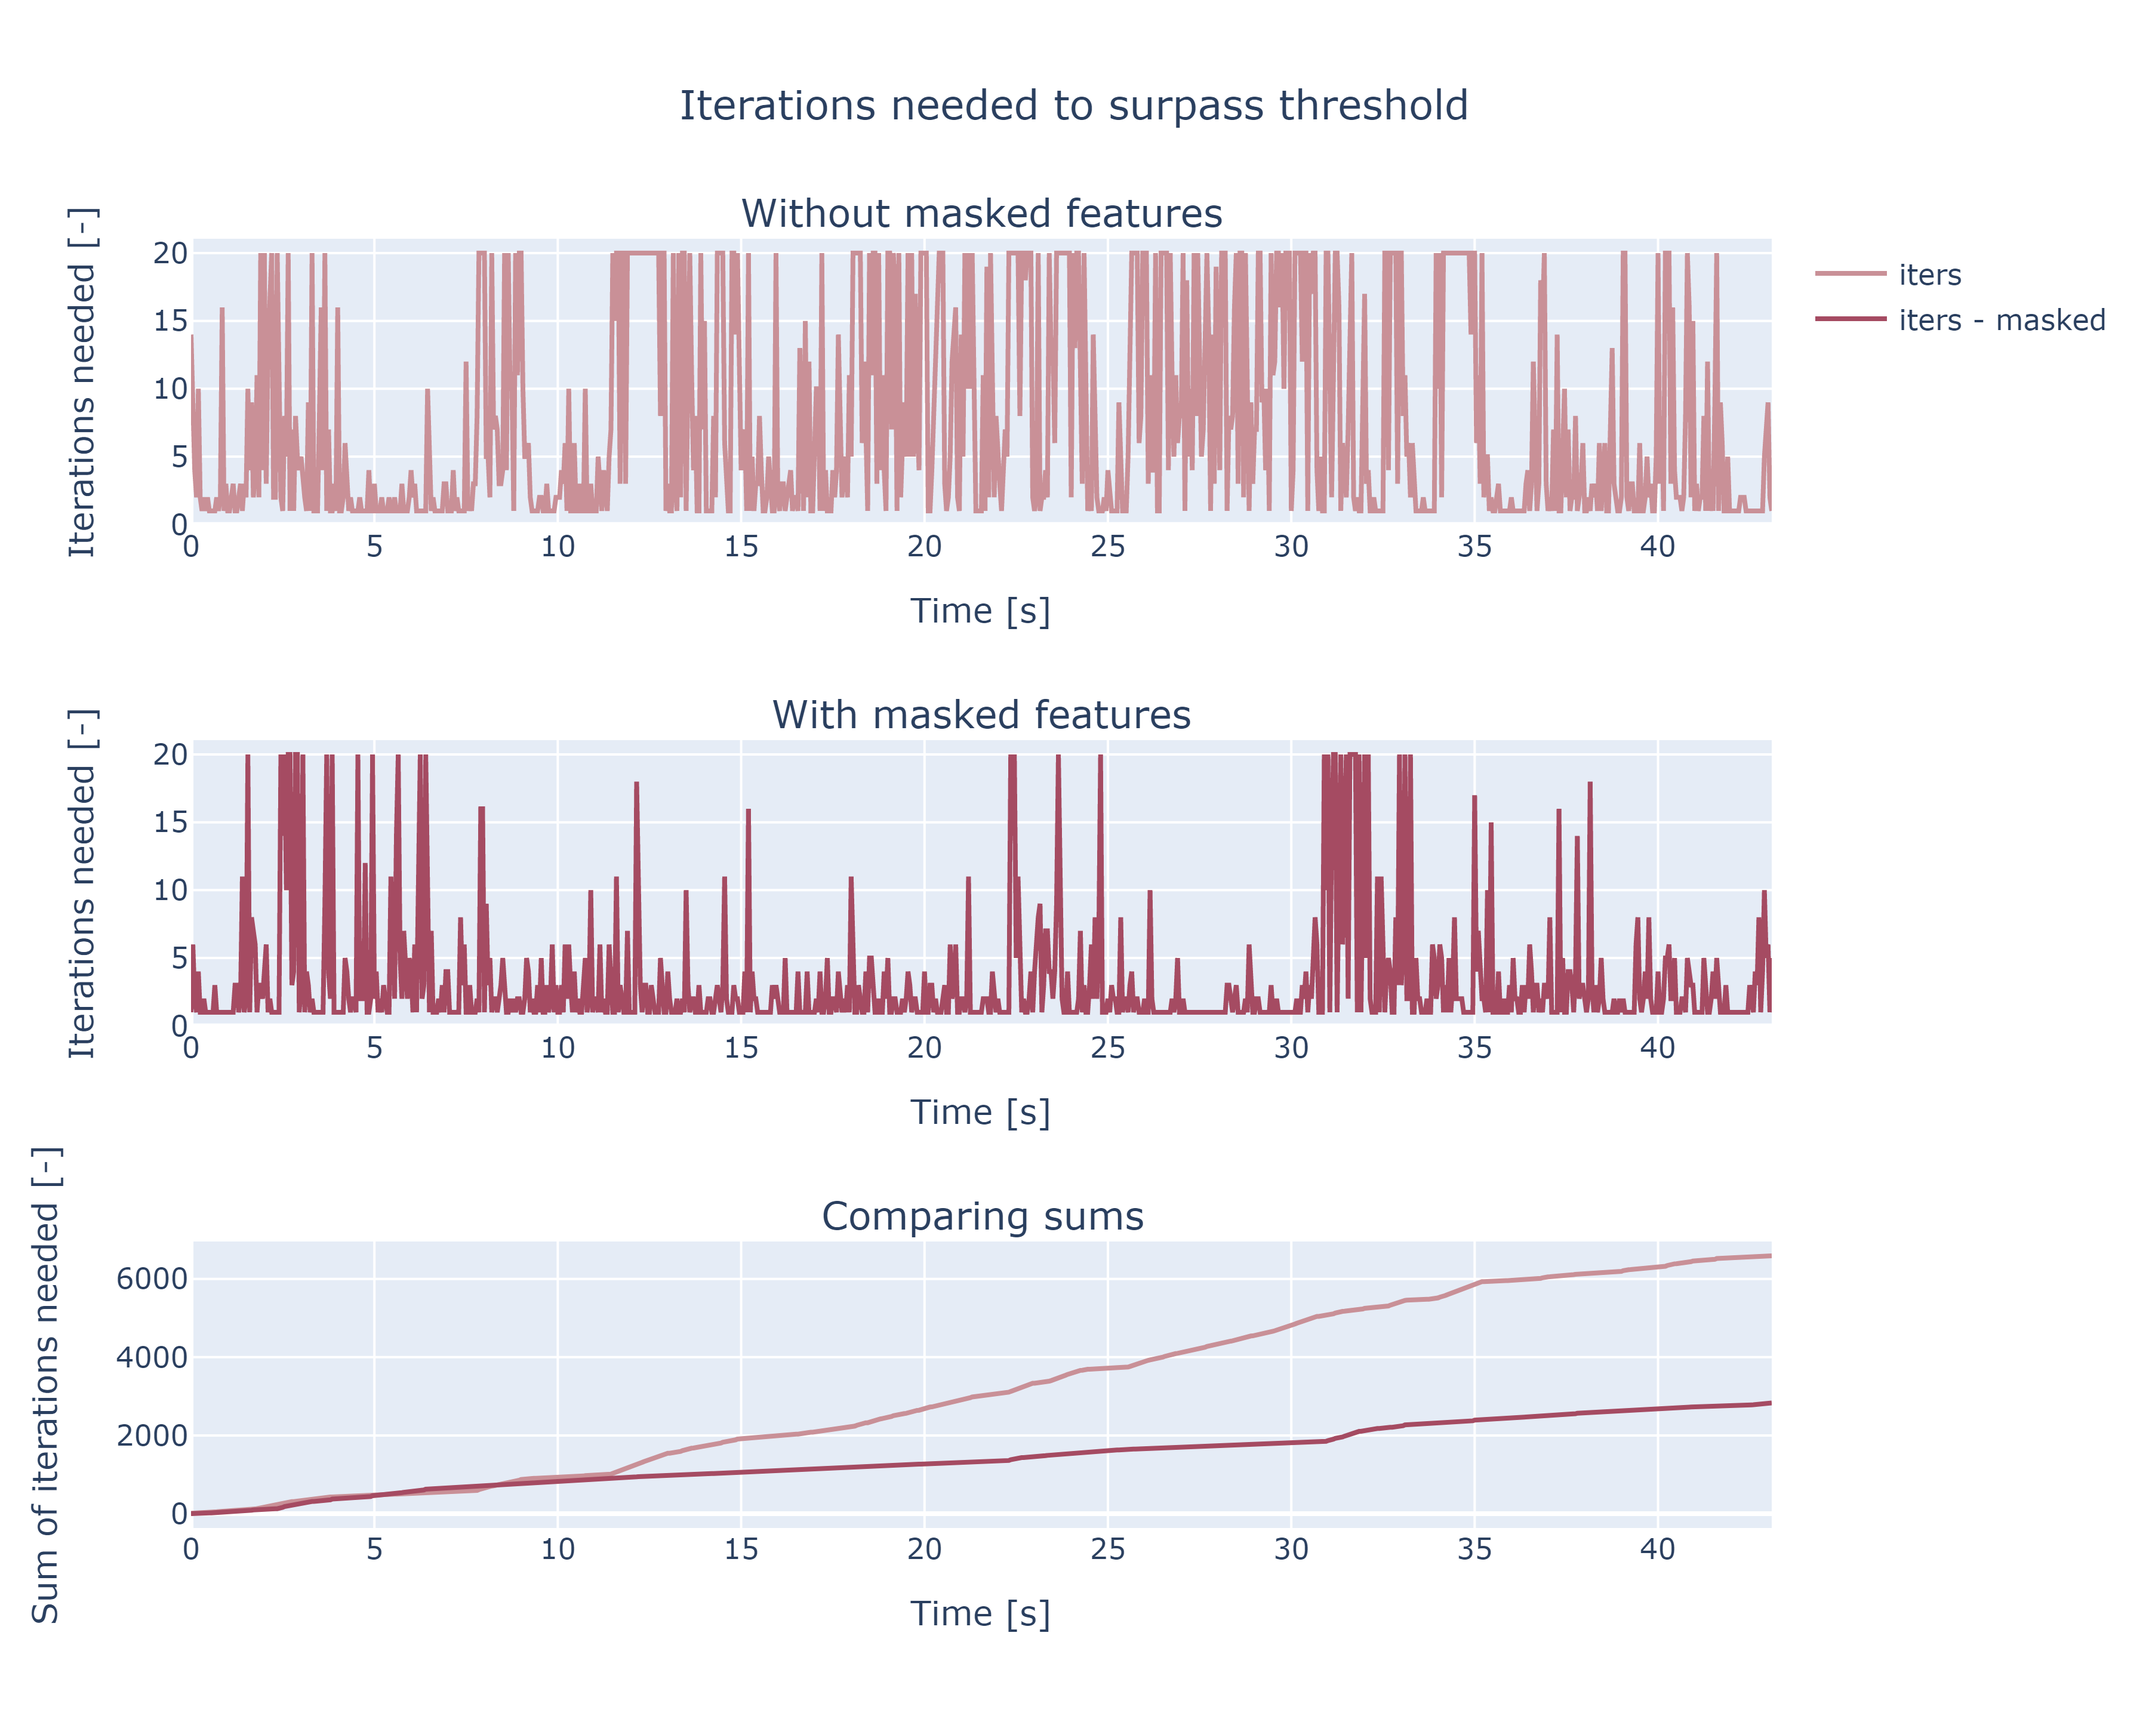
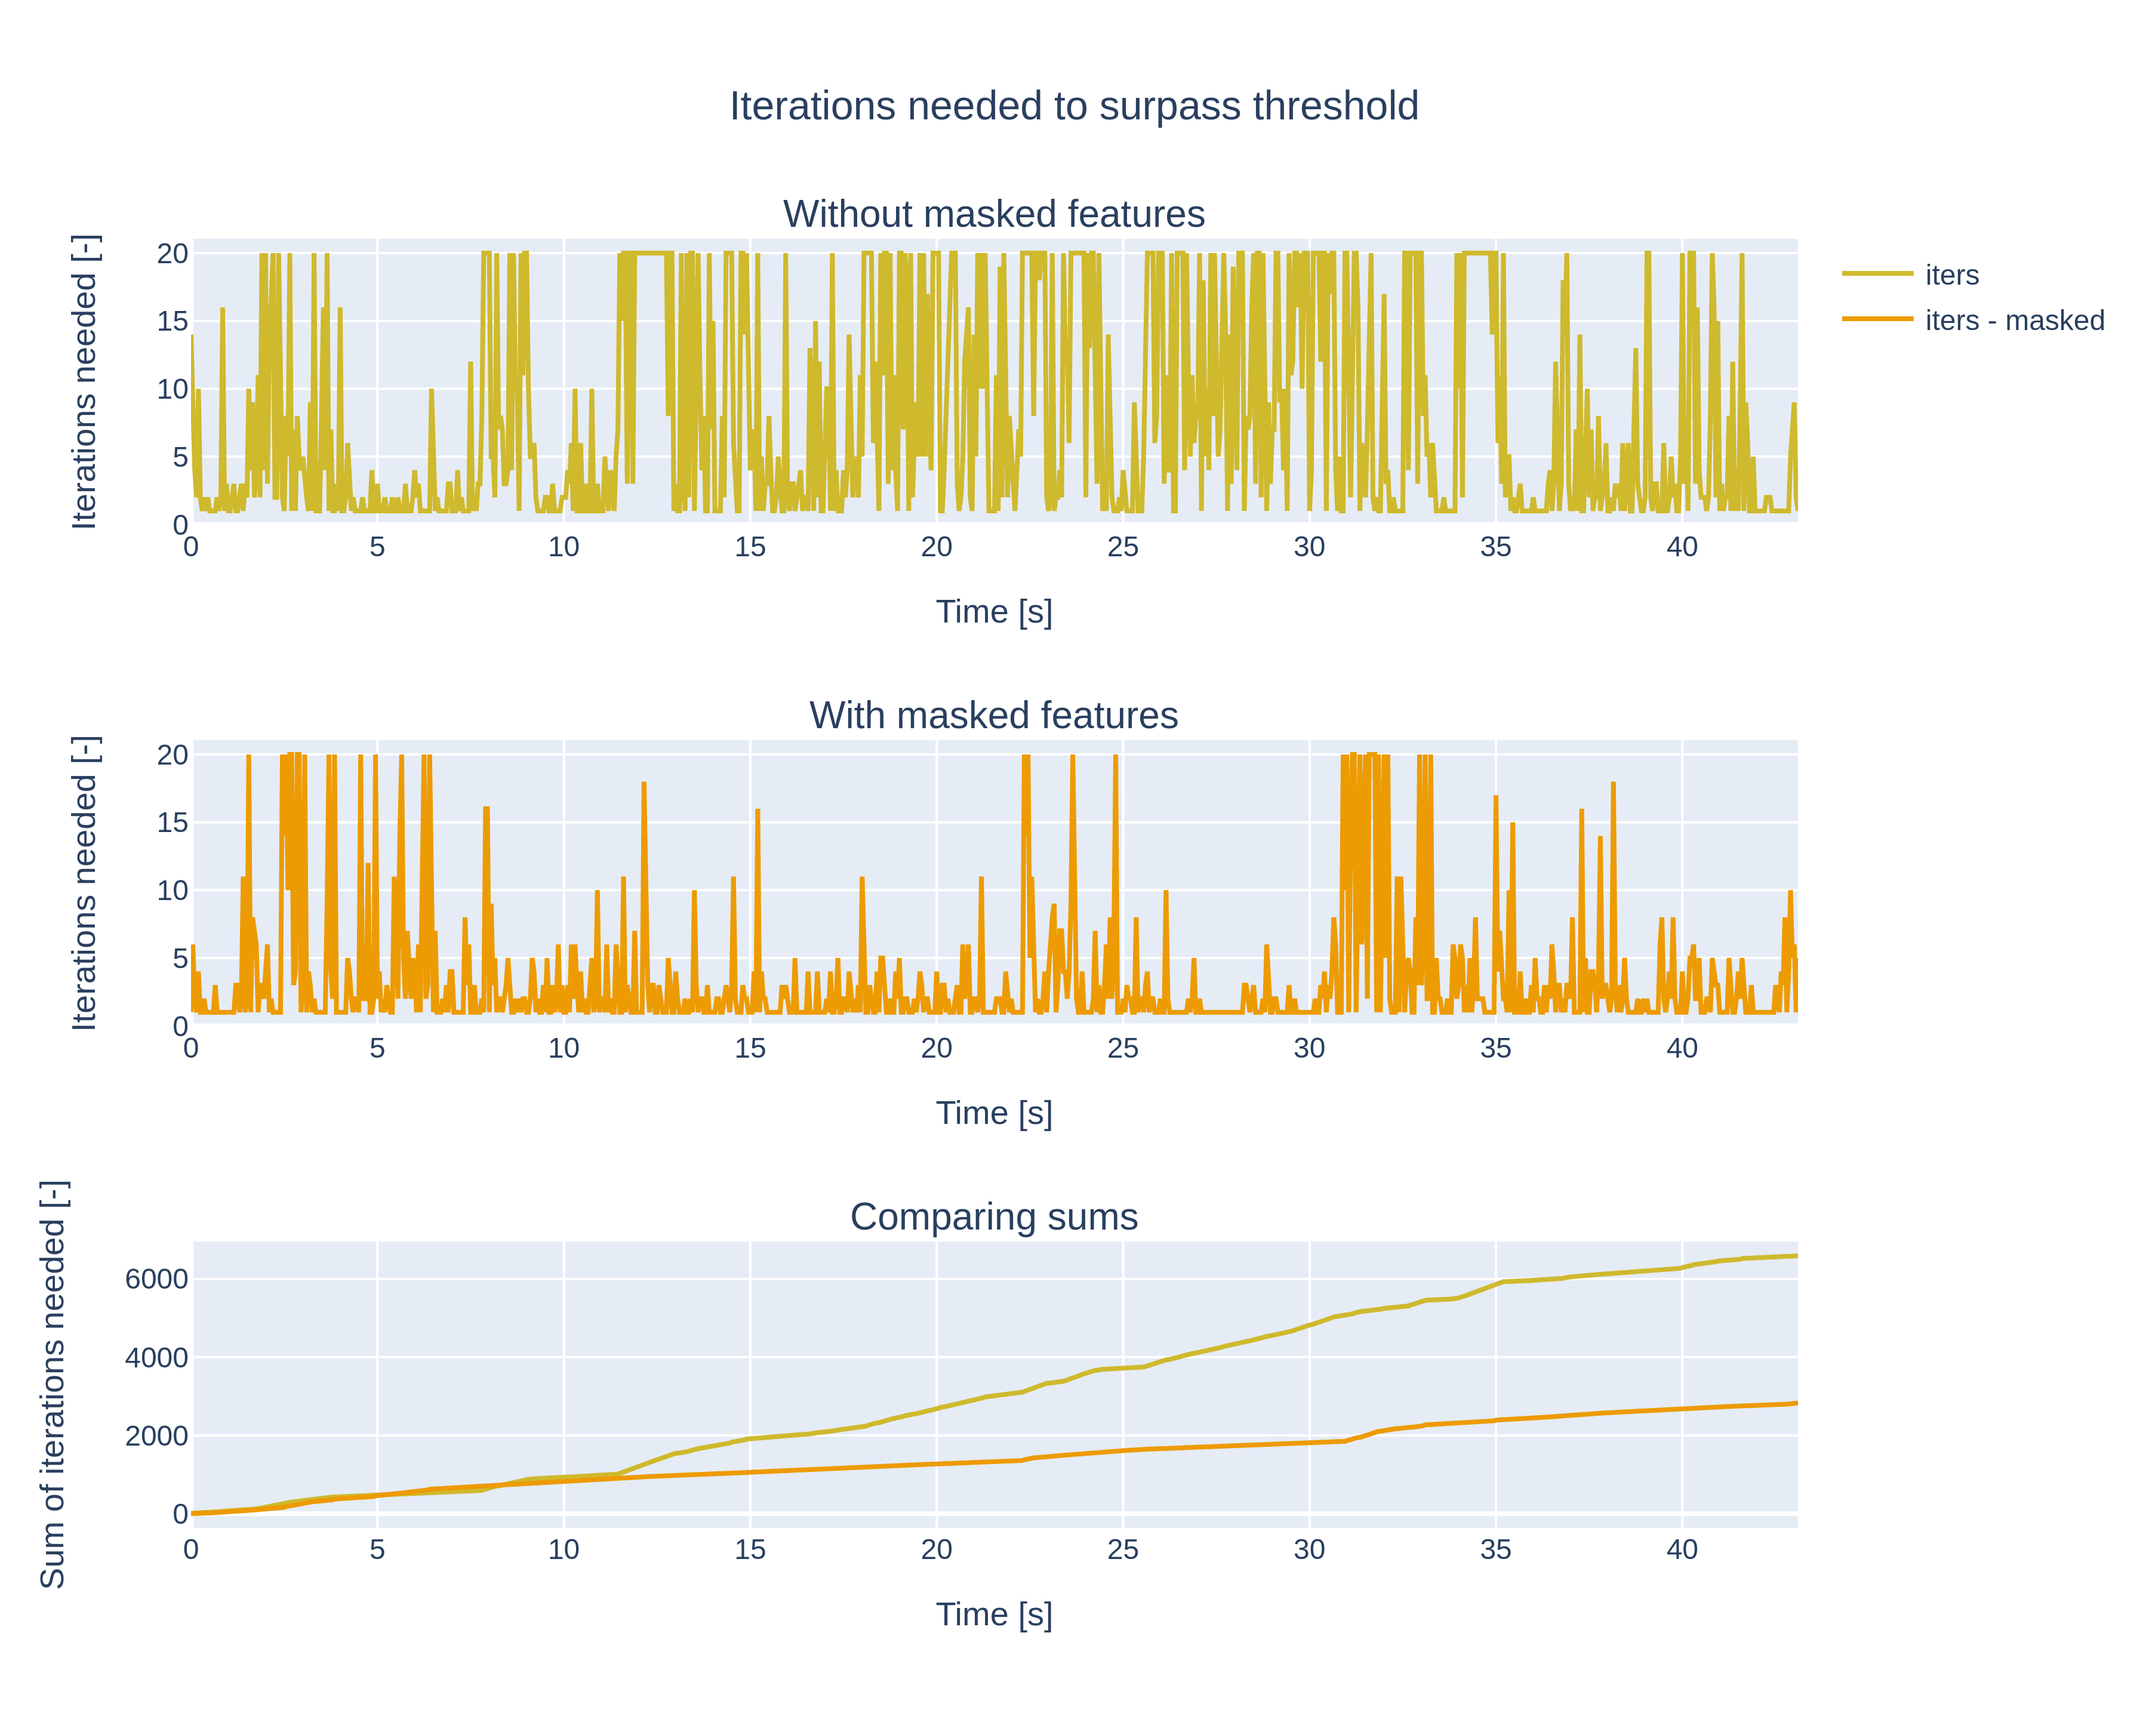
plotting tuned

diff --git a/plotting.py b/plotting.py
@@ -16,25 +16,35 @@ DARK_ORANGE = "#974702"
 LIGHT_ORANGE = "#fdad68"
 LIGHT_GRAY = "#a6a6a6"
 GRAY = "#525252"
+YELLOW = "#cfb92d"
 
-ANG_X = ""
-ANG_Y = ""
-ANG_Z = ""
+MID_RED = "#cf2d2d"
+MID_GREEN = "#1d8236"
+MID_BLUE = "#244e8a"
+MID_ORANGE = "#ed9b02"
 
-COLOR_SUM_RZ = "#a6e2ff"
-COLOR_SUM_RZ_MASK = "#4056ff"
-COLOR_SUM_RZ_IMU = "#8098ff"
+ANG_X = MID_RED
+ANG_Y = MID_GREEN
+ANG_Z = MID_BLUE
 
-COLOR_SUM_TZ = "#63a19f"
-COLOR_SUM_TZ_MASK = "#269165"
+COLOR_SUM_RZ = MID_RED
+COLOR_SUM_RZ_MASK = MID_GREEN
+COLOR_SUM_RZ_IMU = MID_BLUE
 
-COLOR_MATCH = "#ddaadd"
-COLOR_GOOD = "#8c74b2"
-COLOR_INLIER = "#2d4586"
+COLOR_SUM_TZ = YELLOW
+COLOR_SUM_TZ_MASK = MID_ORANGE
 
-COLOR_ITER = "#c99097"
-COLOR_ITER_MASK = "#a54b62"
+# COLOR_MATCH = "#ddaadd"
+# COLOR_GOOD = "#8c74b2"
+# COLOR_INLIER = "#2d4586"
+COLOR_MATCH = MID_RED
+COLOR_GOOD = MID_GREEN
+COLOR_INLIER = MID_BLUE
 
+# COLOR_ITER = "#c99097"
+# COLOR_ITER_MASK = "#a54b62"
+COLOR_ITER = YELLOW
+COLOR_ITER_MASK = MID_ORANGE
 
 def serialize_data(data_tx, data_ty, data_tz, data_rx, data_ry, data_rz, data_matches, data_good, data_inliers,
                    data_iters, data_frames, imu_rx, imu_ry, imu_rz, imu_packets):
@@ -229,7 +239,7 @@ def pre_process_data(data_tx, data_ty, data_tz, data_rx, data_ry, data_rz, data_
 
     imu_time = []
     for tmp in imu_packets:
-        imu_time.append(tmp / 41)
+        imu_time.append(tmp / 40)
 
     ang_vel_x = []
     for i, tmp in enumerate(data_rx):
@@ -294,7 +304,7 @@ def pre_process_data(data_tx, data_ty, data_tz, data_rx, data_ry, data_rz, data_
     imu_sum_rz = []
     for val in imu_rz:
         imu_sum_rz_val += val
-        imu_sum_rz.append(imu_sum_rz_val / 41)
+        imu_sum_rz.append(imu_sum_rz_val / 40)
 
     return data_tx, data_ty, data_tz, data_rx, data_ry, data_rz, data_matches, data_good, data_inliers, data_iters, \
            data_frames, imu_rx, imu_ry, imu_rz, imu_packets, data_time, pd_ang_vel_x, pd_ang_vel_y, pd_ang_vel_z, \
@@ -326,31 +336,75 @@ def save_plotly_plots(data_tx, data_ty, data_tz, data_rx, data_ry, data_rz, data
     # ==================================================================
 
     fig = make_subplots(rows=3, cols=1,
-                        subplot_titles=("Raw estimate", "Rolling mean estimate, window size 10", "IMU ground truth"))
+                        subplot_titles=("Raw estimate", "Rolling mean estimate, window size 10", "IMU data"))
 
-    fig.add_trace(go.Scatter(x=data_time, y=ang_vel_x, name='X', line=dict(color=RED, width=2),
+    fig.add_trace(go.Scatter(x=data_time, y=ang_vel_x, name='X', line=dict(color=ANG_X, width=2),
                              legendgroup='1'), row=1, col=1)
-    fig.add_trace(go.Scatter(x=data_time, y=ang_vel_y, name='Y', line=dict(color=GREEN, width=2),
+    fig.add_trace(go.Scatter(x=data_time, y=ang_vel_y, name='Y', line=dict(color=ANG_Y, width=2),
                              legendgroup='1'), row=1, col=1)
-    fig.add_trace(go.Scatter(x=data_time, y=ang_vel_z, name='Z', line=dict(color=BLUE, width=2),
+    fig.add_trace(go.Scatter(x=data_time, y=ang_vel_z, name='Z', line=dict(color=ANG_Z, width=2),
                              legendgroup='1'), row=1, col=1)
 
-    fig.add_trace(go.Scatter(x=data_time, y=pd_ang_vel_x, name='X', line=dict(color=RED, width=2),
+    fig.add_trace(go.Scatter(x=data_time, y=pd_ang_vel_x, name='X', line=dict(color=ANG_X, width=2),
                              legendgroup='2', showlegend=False), row=2, col=1)
-    fig.add_trace(go.Scatter(x=data_time, y=pd_ang_vel_y, name='Y', line=dict(color=GREEN, width=2),
+    fig.add_trace(go.Scatter(x=data_time, y=pd_ang_vel_y, name='Y', line=dict(color=ANG_Y, width=2),
                              legendgroup='2', showlegend=False), row=2, col=1)
-    fig.add_trace(go.Scatter(x=data_time, y=pd_ang_vel_z, name='Z', line=dict(color=BLUE, width=2),
+    fig.add_trace(go.Scatter(x=data_time, y=pd_ang_vel_z, name='Z', line=dict(color=ANG_Z, width=2),
                              legendgroup='2', showlegend=False), row=2, col=1)
 
-    fig.add_trace(go.Scatter(x=imu_time, y=imu_rx, name='X', line=dict(color=RED, width=2),
+    fig.add_trace(go.Scatter(x=imu_time, y=imu_rx, name='X', line=dict(color=ANG_X, width=2),
                              legendgroup='3', showlegend=False), row=3, col=1)
-    fig.add_trace(go.Scatter(x=imu_time, y=imu_rz, name='Y', line=dict(color=GREEN, width=2),
+    fig.add_trace(go.Scatter(x=imu_time, y=imu_ry, name='Y', line=dict(color=ANG_Y, width=2),
                              legendgroup='3', showlegend=False), row=3, col=1)
-    fig.add_trace(go.Scatter(x=imu_time, y=imu_rz, name='Z', line=dict(color=BLUE, width=2),
+    fig.add_trace(go.Scatter(x=imu_time, y=imu_rz, name='Z', line=dict(color=ANG_Z, width=2),
                              legendgroup='3', showlegend=False), row=3, col=1)
 
     # Edit the layout
-    fig.update_layout(title='Comparing angular velocity estimate to IMU ground truth data',
+    fig.update_layout(title='Comparing angular velocity estimate to IMU data',
+                      title_x=0.5,
+                      xaxis1_title='Time [s]',
+                      yaxis1_title='Angular velocity [rad/s]',
+                      yaxis1_range = [-1, 1.8],
+                      xaxis2_title='Time [s]',
+                      yaxis2_title='Angular velocity [rad/s]',
+                      yaxis2_range=[-1, 1.65],
+                      xaxis3_title='Time [s]',
+                      yaxis3_title='Angular velocity [rad/s]',
+                      yaxis3_range=[-1, 1.3],
+                      )
+
+    fig.write_image("imgs/angular_velocity.png", format="png", height=720, width=900, scale=4)
+
+    # ==================================================================
+    # ANUGLAR VELOCITY 2
+    # ==================================================================
+
+    fig = make_subplots(rows=2, cols=2,
+                        subplot_titles=("X component", "Y component", "Z component"),
+                        specs=[[{"colspan": 2}, None],
+                               [{}, {}]],
+                        )
+
+    fig.add_trace(go.Scatter(x=imu_time, y=imu_rx, name='X - IMU', line=dict(color=LIGHT_RED, width=2),
+                             legendgroup='1'), row=1, col=1)
+    fig.add_trace(go.Scatter(x=data_time, y=pd_ang_vel_x, name='X - AVG', line=dict(color=RED, width=2),
+                             legendgroup='1'), row=1, col=1)
+
+
+    fig.add_trace(go.Scatter(x=imu_time, y=imu_ry, name='Y - IMU', line=dict(color=LIGHT_GREEN, width=2),
+                             legendgroup='2'), row=2, col=1)
+    fig.add_trace(go.Scatter(x=data_time, y=pd_ang_vel_y, name='Y- AVG', line=dict(color=GREEN, width=2),
+                             legendgroup='2'), row=2, col=1)
+
+
+    fig.add_trace(go.Scatter(x=imu_time, y=imu_rz, name='Z - IMU', line=dict(color=LIGHT_BLUE, width=2),
+                             legendgroup='3'), row=2, col=2)
+    fig.add_trace(go.Scatter(x=data_time, y=pd_ang_vel_z, name='Z- AVG', line=dict(color=BLUE, width=2),
+                             legendgroup='3'), row=2, col=2)
+
+
+    # Edit the layout
+    fig.update_layout(title='Comparing angular velocity estimate to IMU data',
                       title_x=0.5,
                       xaxis1_title='Time [s]',
                       yaxis1_title='Angular velocity [rad/s]',
@@ -360,9 +414,8 @@ def save_plotly_plots(data_tx, data_ty, data_tz, data_rx, data_ry, data_rz, data
                       yaxis3_title='Angular velocity [rad/s]'
                       )
 
-    fig.update_yaxes(range=[-1, 2])
+    fig.write_image("imgs/angular_velocity-2.png", format="png", height=720, width=900, scale=4)
 
-    fig.write_image("imgs/angular_velocity.png", format="png", height=720, width=900, scale=4)
 
     # ==================================================================
     # SIDESLIP
@@ -375,7 +428,7 @@ def save_plotly_plots(data_tx, data_ty, data_tz, data_rx, data_ry, data_rz, data
         upper_limit.append(5.73)
 
     fig = make_subplots(rows=2, cols=1,
-                        subplot_titles=("With masked features", "Without masked features"),
+                        subplot_titles=("With masked features", "Without masked features")
                         )
 
     fig.add_trace(go.Scatter(x=data_time, y=data_sideslip, name='raw', line=dict(color=LIGHT_RED, width=2),
@@ -613,7 +666,7 @@ def save_plotly_plots(data_tx, data_ty, data_tz, data_rx, data_ry, data_rz, data
     fig.add_trace(go.Scatter(x=data_time, y=sum_rz, name='Rz - masked', line=dict(color=COLOR_SUM_RZ_MASK, width=2),
                              legendgroup='2'), row=1, col=2)
     fig.add_trace(
-        go.Scatter(x=imu_time, y=imu_sum_rz, name='IMU ground truth', line=dict(color=COLOR_SUM_RZ_IMU, width=2),
+        go.Scatter(x=imu_time, y=imu_sum_rz, name='IMU', line=dict(color=COLOR_SUM_RZ_IMU, width=2),
                    legendgroup='2'), row=1, col=2)
     fig.add_trace(go.Scatter(x=data_time, y=upper_limit, name='upper limit', line=dict(color=GRAY, width=2,
                                                                                        dash='dash'),
